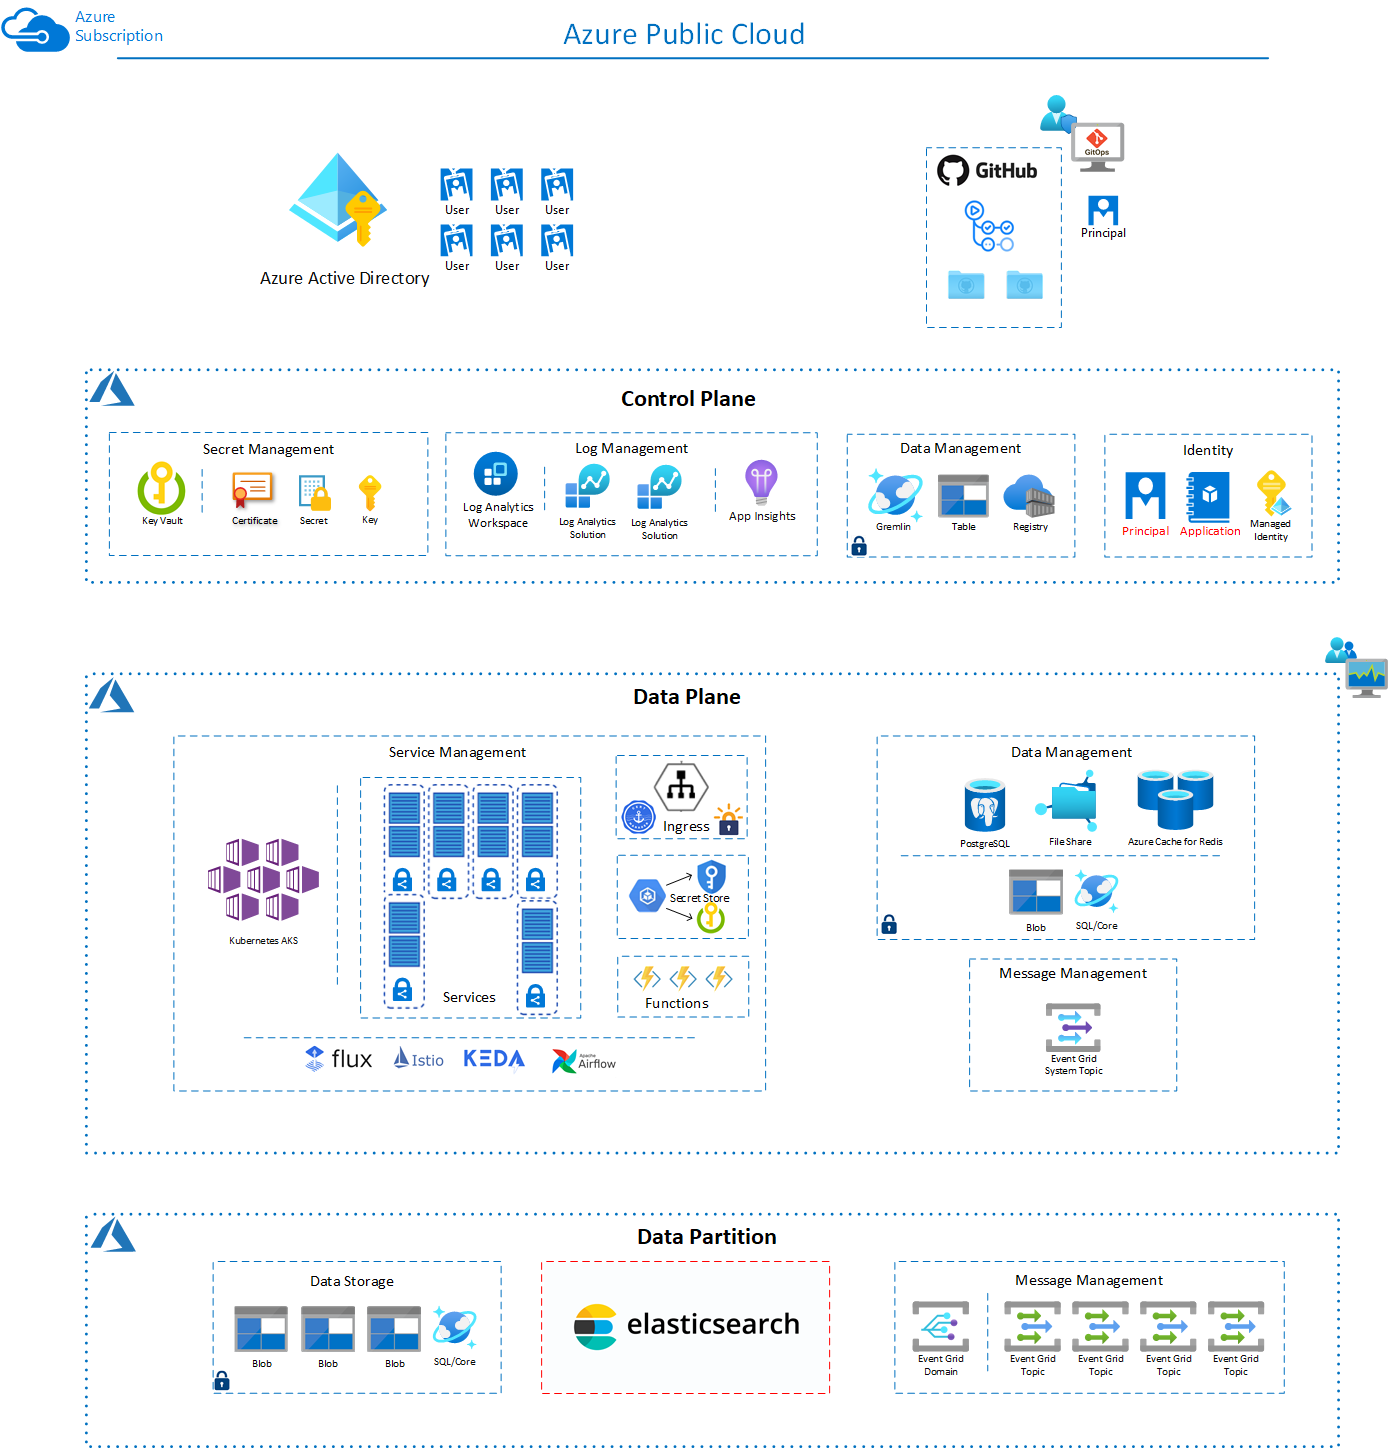
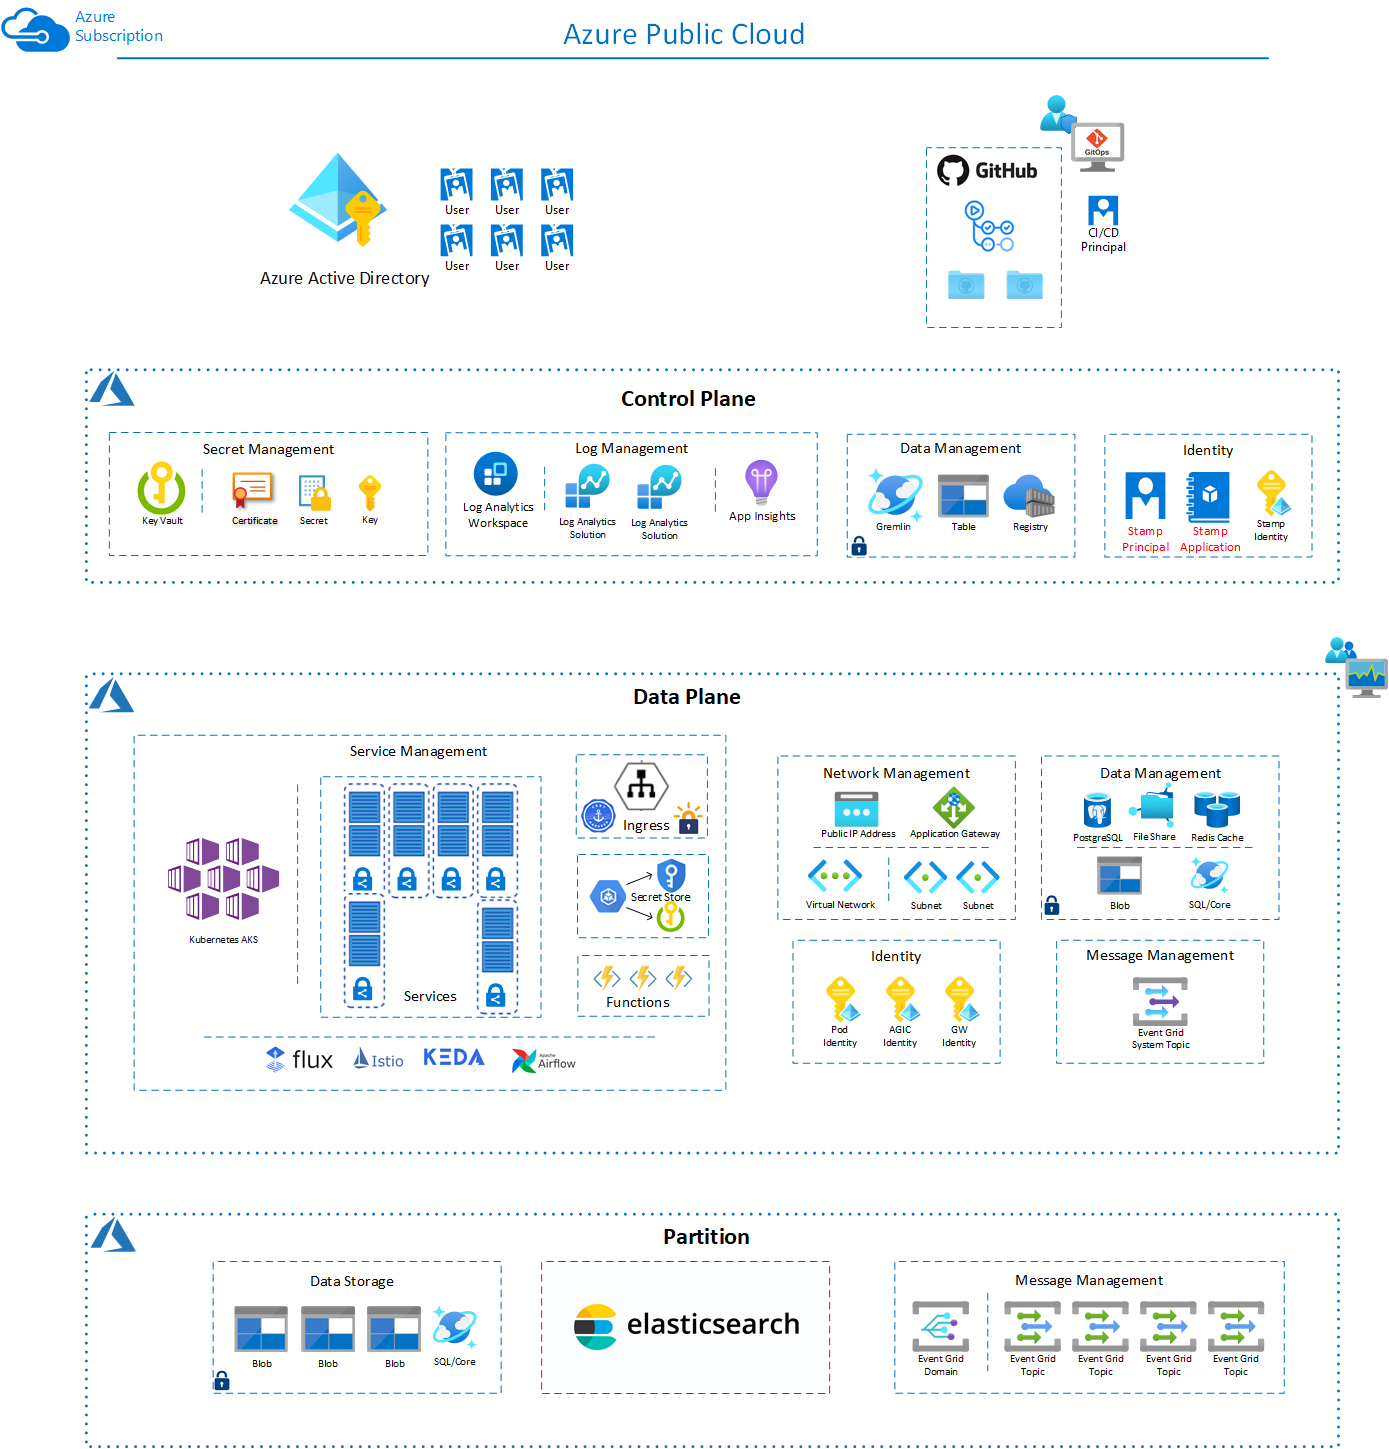
Naming Concepts Updated

diff --git a/README.md b/README.md
@@ -4,7 +4,7 @@
 
 [![2. Stamp Builder](https://github.com/danielscholl/self-managed-osdu/actions/workflows/stamp-builder.yaml/badge.svg)](https://github.com/danielscholl/self-managed-osdu/actions/workflows/stamp-builder.yaml)
 
-[![3. Stamp Deployment](https://github.com/danielscholl/self-managed-osdu/actions/workflows/stamp-deploy.yaml/badge.svg)](https://github.com/danielscholl/self-managed-osdu/actions/workflows/stamp-deploy.yaml)
+[![3. Stamp Provision](https://github.com/danielscholl/self-managed-osdu/actions/workflows/stamp-provision.yaml/badge.svg)](https://github.com/danielscholl/self-managed-osdu/actions/workflows/stamp-provision.yaml)
 
 This project is a prototype developed to deploy [OSDU on Azure](https://community.opengroup.org/osdu/platform/deployment-and-operations/infra-azure-provisioning) on self managed infrastructure.
 
@@ -132,4 +132,4 @@ Deployment is performed by executing the following Github Actions:
 
 2. __Stamp Builder__: This action provisions builder resources necessary in the provisioning process of a Deployment Stamp.
 
-3. __Stamp Deployment__: This action deploys a `Self Managed OSDU` Deployment Stamp.
+3. __Stamp Provision: This action provisions resources for a `Self Managed OSDU` Deployment Stamp.
